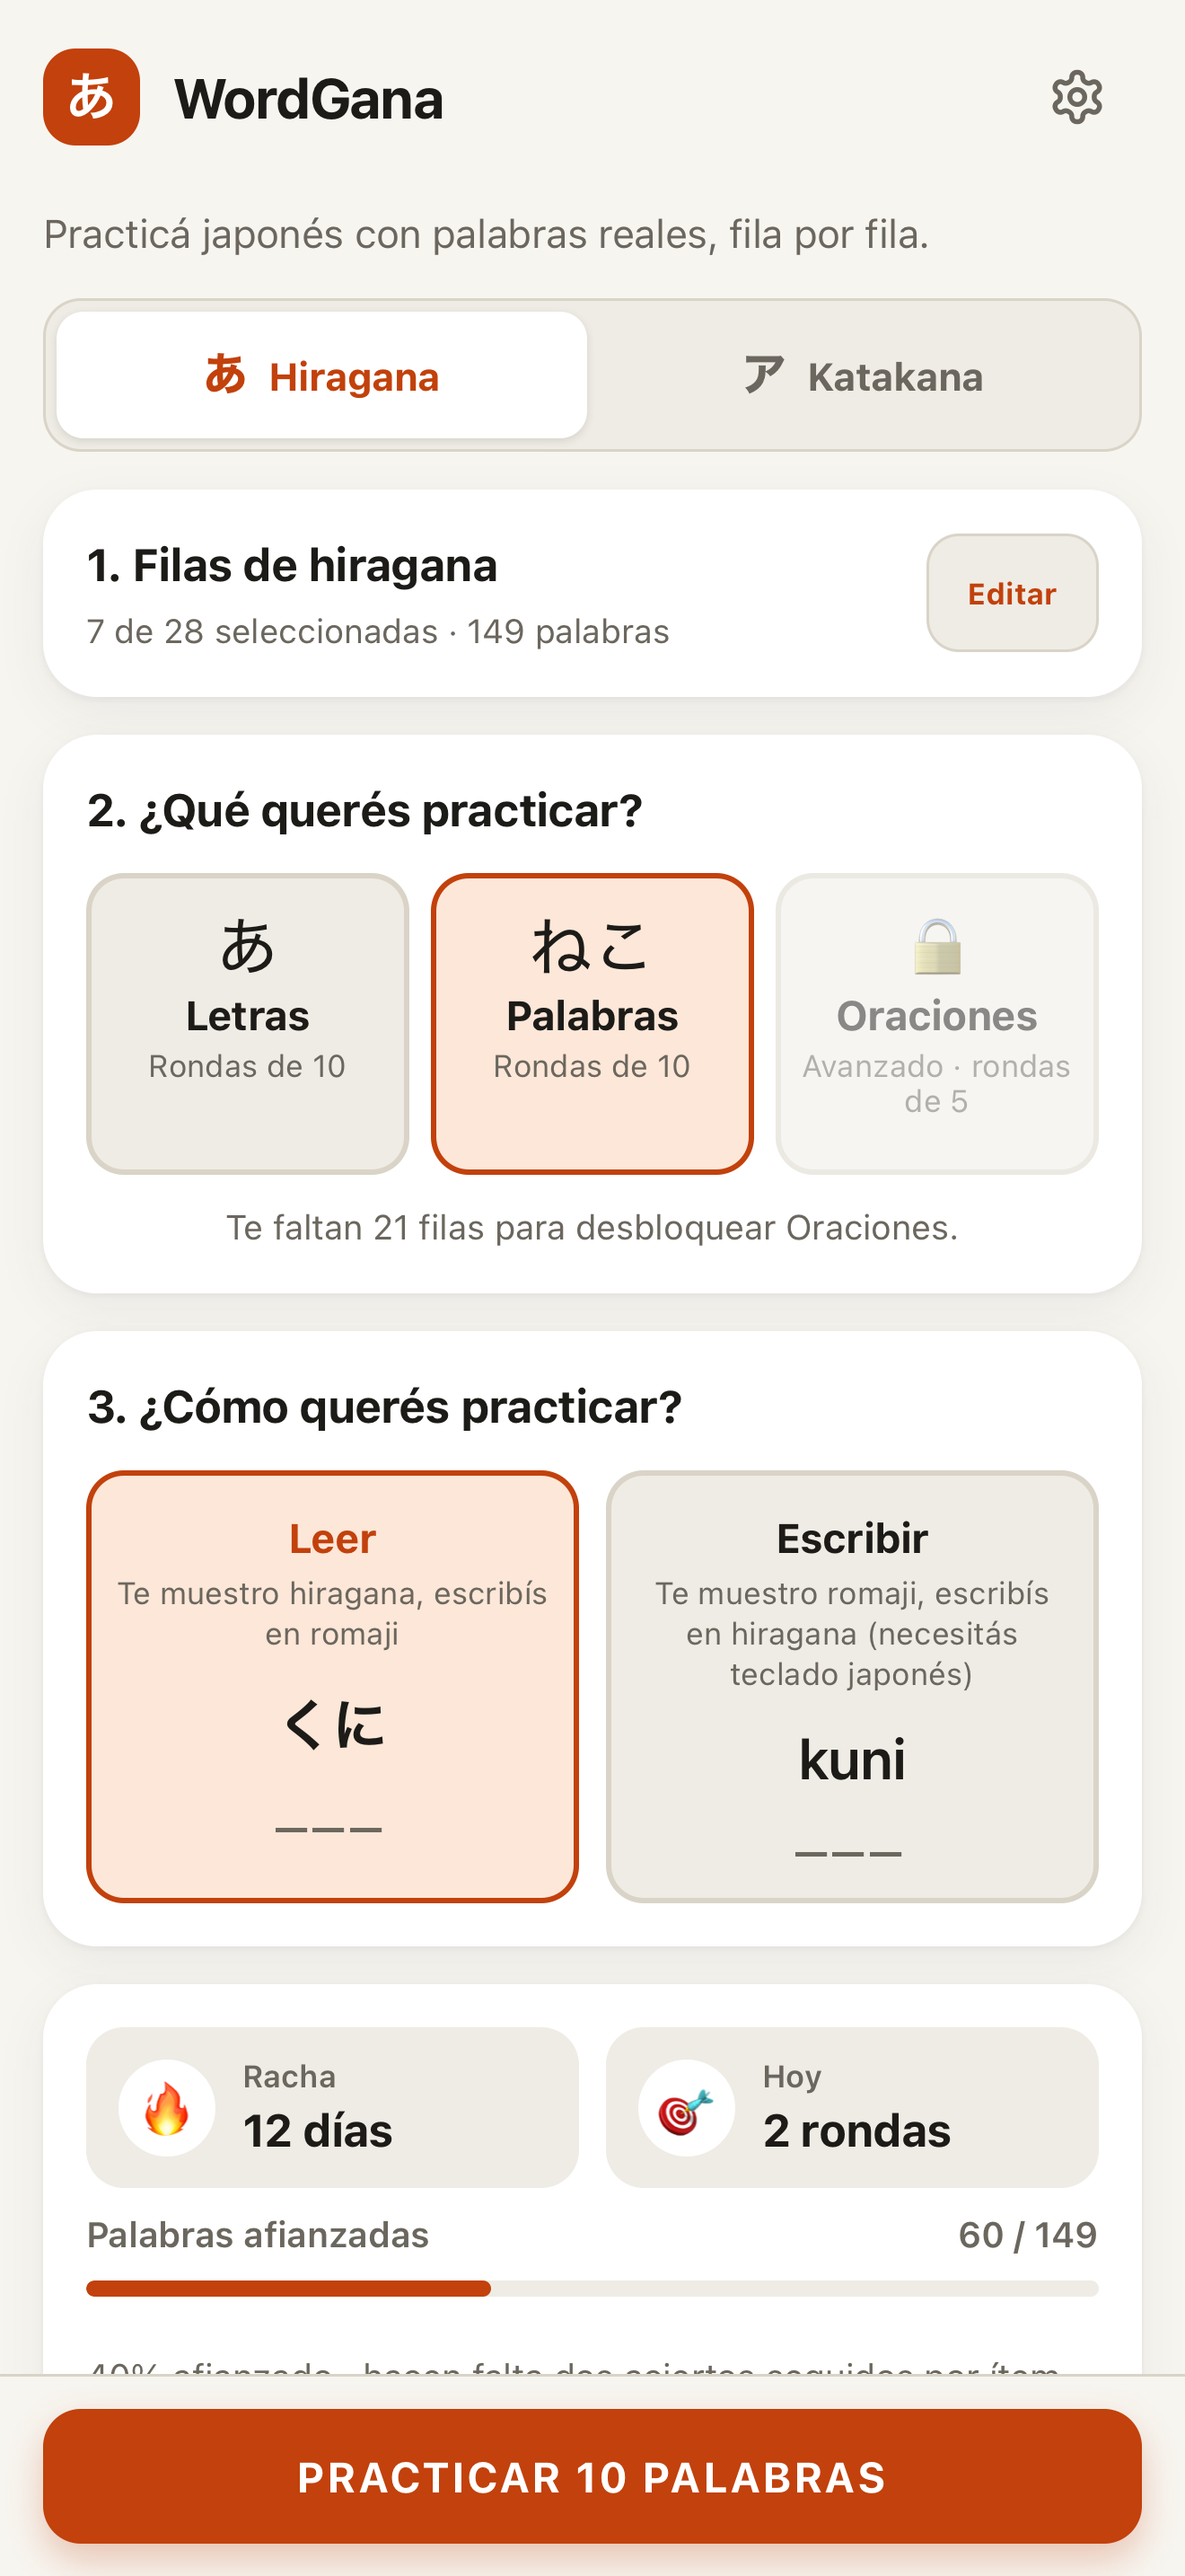
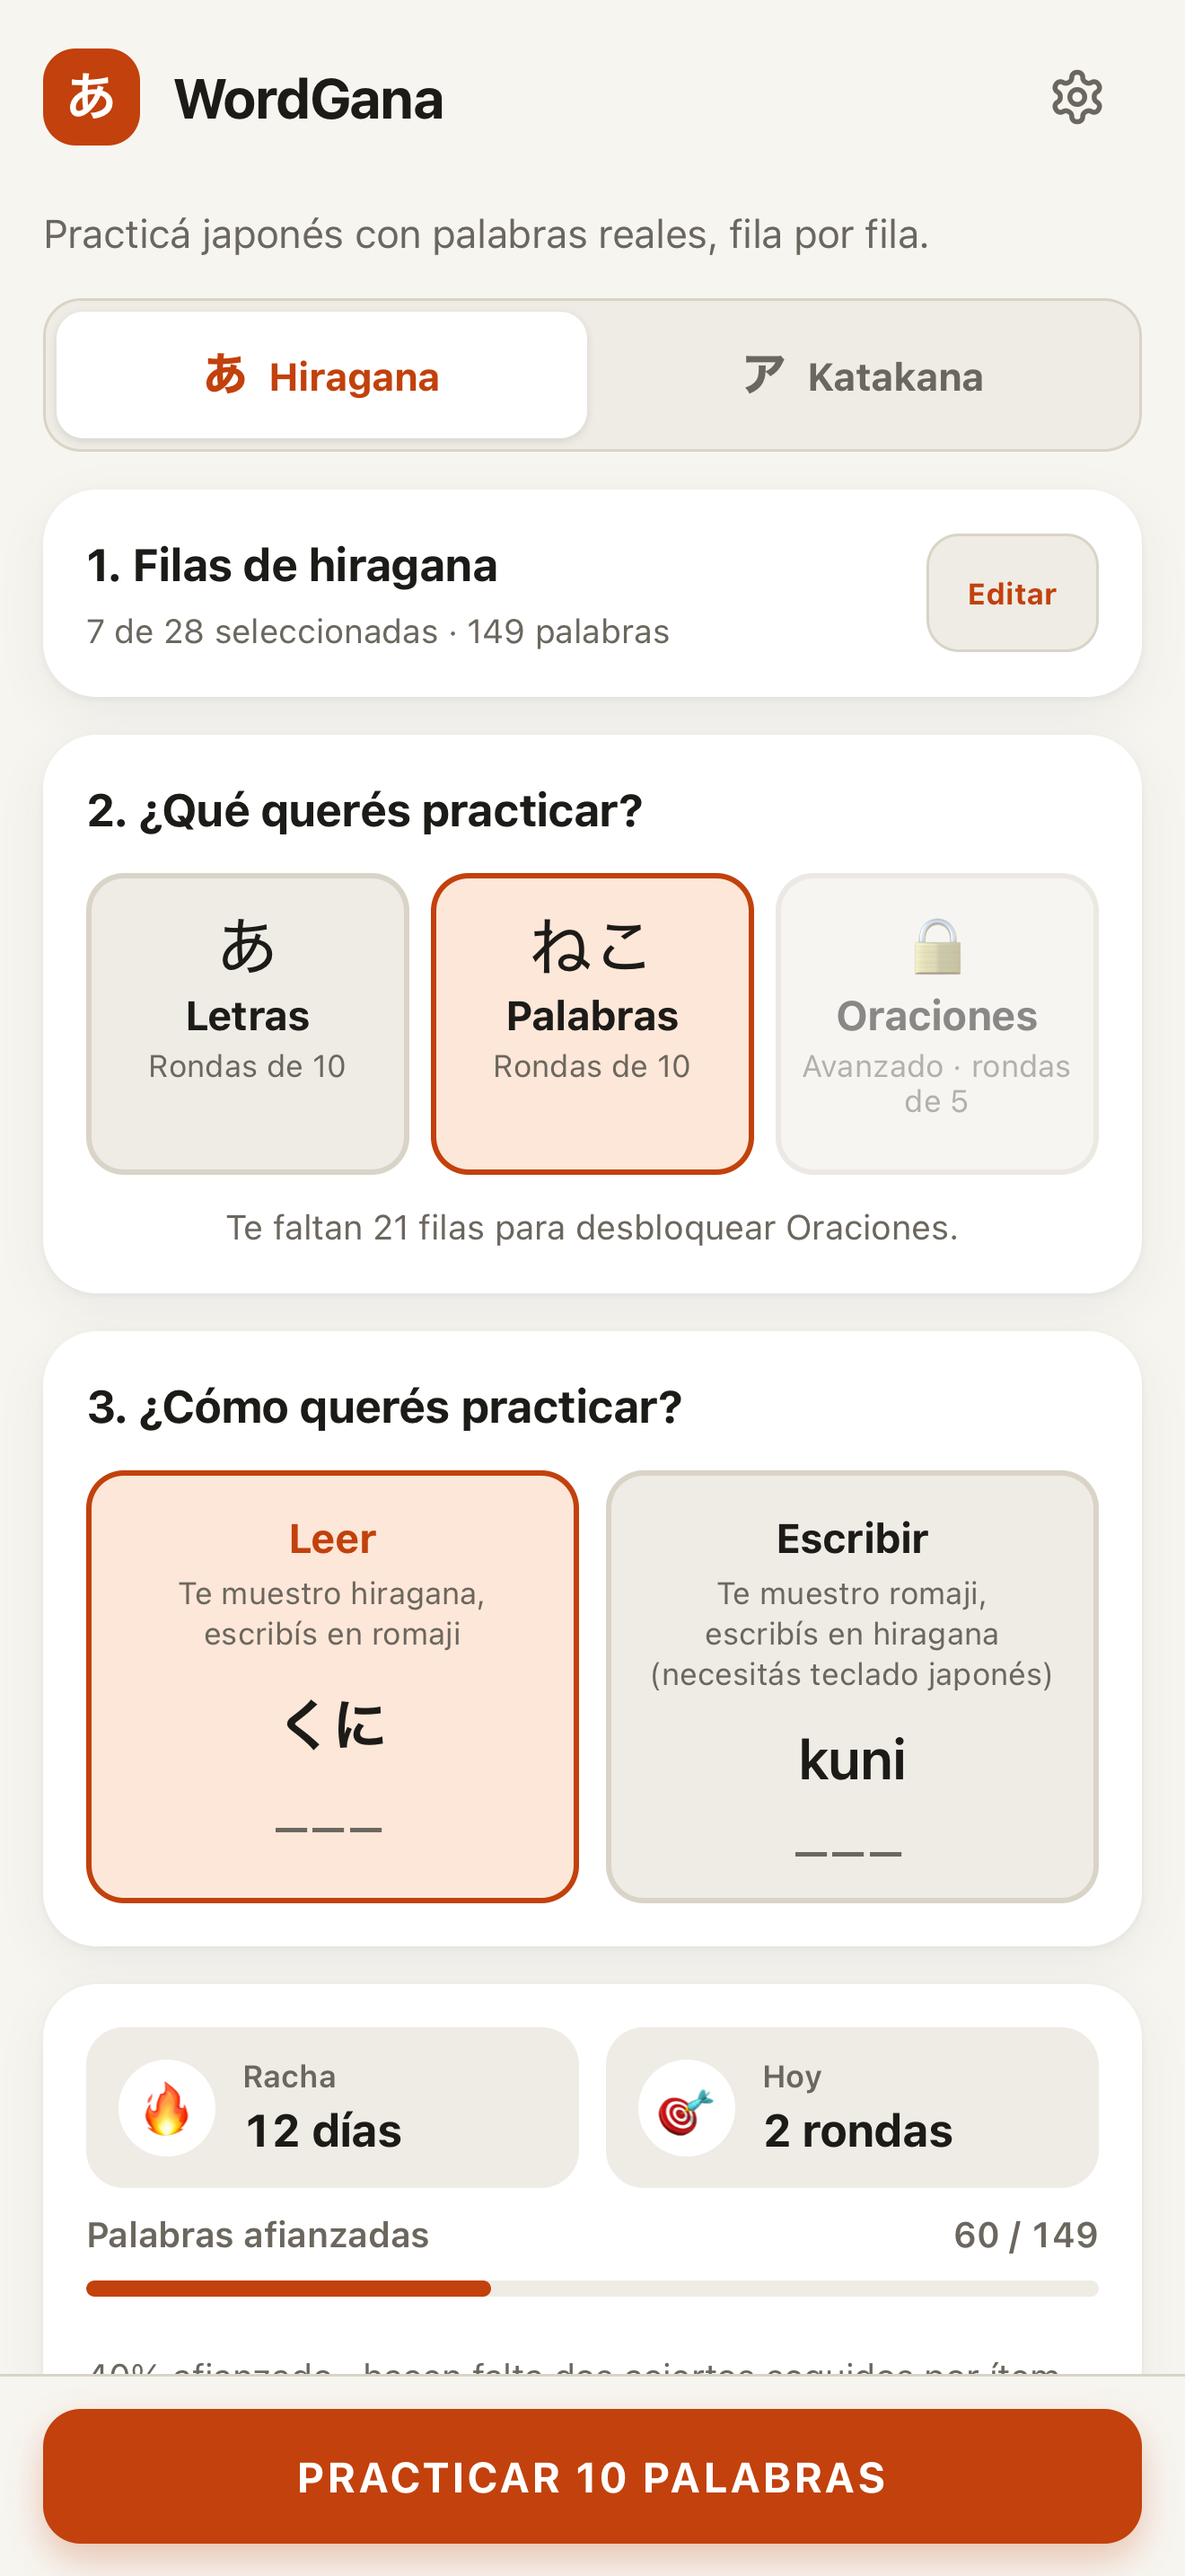
Pulir detalles de la interfaz
- Escala de 0.96 al presionar en todos los botones y tarjetas, con ease-out.
- Hover solo en dispositivos con puntero, para que no quede pegado en iPhone.
- Botones de audio del repaso de 44 px y texto del feedback centrado.
- Números tabulares en contadores, text-wrap en títulos y párrafos.
- Íconos con un único grosor de trazo y entrada de logros sin rebote.

diff --git a/src/styles.css b/src/styles.css
@@ -94,6 +94,8 @@ button:focus-visible, input:focus-visible, textarea:focus-visible {
 }
 .app--setup { padding-bottom: 0; }
 
+h1, h2, h3 { text-wrap: balance; }
+p { text-wrap: pretty; }
 h2 { font-size: 1.05rem; margin: 0 0 4px; font-weight: 700; }
 .ja { font-family: var(--font-ja); }
 
@@ -133,10 +135,12 @@ h2 { font-size: 1.05rem; margin: 0 0 4px; font-weight: 700; }
   background: transparent;
   color: var(--muted);
   cursor: pointer;
-  transition: background-color 0.15s ease, color 0.15s ease, transform 0.08s ease;
+  transition: background-color 0.15s ease-out, color 0.15s ease-out, transform 0.1s ease-out;
 }
-.appbar-btn:hover { background: var(--surface-2); color: var(--text); }
-.appbar-btn:active { background: var(--accent-soft); color: var(--accent); transform: scale(0.94); }
+.appbar-btn:active { background: var(--accent-soft); color: var(--accent); transform: scale(0.96); }
+@media (hover: hover) {
+  .appbar-btn:hover { background: var(--surface-2); color: var(--text); }
+}
 .appbar-btn--trailing { margin-left: auto; }
 .appbar-icon { width: 22px; height: 22px; }
 .appbar-title { min-width: 0; margin: 0; font-size: 1.3rem; font-weight: 700; letter-spacing: -0.01em; }
@@ -182,7 +186,7 @@ h2 { font-size: 1.05rem; margin: 0 0 4px; font-weight: 700; }
   border-radius: 999px;
   background: var(--border);
   cursor: pointer;
-  transition: background-color 0.2s ease;
+  transition: background-color 0.2s ease-out;
 }
 .switch::after {
   content: '';
@@ -194,7 +198,7 @@ h2 { font-size: 1.05rem; margin: 0 0 4px; font-weight: 700; }
   border-radius: 50%;
   background: #fff;
   box-shadow: 0 2px 4px rgba(0, 0, 0, 0.2);
-  transition: transform 0.2s ease;
+  transition: transform 0.2s ease-out;
 }
 .switch:checked { background: var(--ok); }
 .switch:checked::after { transform: translateX(20px); }
@@ -202,7 +206,7 @@ h2 { font-size: 1.05rem; margin: 0 0 4px; font-weight: 700; }
   min-height: 36px;
   padding: 4px 10px;
   border: 0;
-  border-radius: 8px;
+  border-radius: 6px;
   background: var(--surface);
   color: var(--text);
   font: inherit;
@@ -252,6 +256,7 @@ h2 { font-size: 1.05rem; margin: 0 0 4px; font-weight: 700; }
   cursor: pointer;
 }
 .script-switch-btn .ja { margin-right: 4px; font-size: 1.05rem; }
+.script-switch-btn { transition: background-color 0.15s ease-out, color 0.15s ease-out, box-shadow 0.15s ease-out; }
 .script-switch-btn--selected {
   background: var(--surface);
   color: var(--accent);
@@ -288,7 +293,7 @@ h2 { font-size: 1.05rem; margin: 0 0 4px; font-weight: 700; }
   font-size: 1.05rem;
 }
 .stat-label { margin: 0; font-size: 0.72rem; font-weight: 600; color: var(--muted); }
-.stat-value { margin: 0; font-size: 1.05rem; font-weight: 700; white-space: nowrap; }
+.stat-value { margin: 0; font-size: 1.05rem; font-weight: 700; white-space: nowrap; font-variant-numeric: tabular-nums; }
 
 .stat-tiles--spaced { margin-top: 12px; }
 .nav-list {
@@ -437,12 +442,12 @@ h2 { font-size: 1.05rem; margin: 0 0 4px; font-weight: 700; }
   align-items: center;
   gap: 12px;
   padding: 10px 0;
-  animation: achievement-pop 0.5s cubic-bezier(0.2, 0.9, 0.3, 1.25) both;
+  animation: achievement-pop 0.45s cubic-bezier(0.2, 0, 0, 1) both;
 }
 .unlocked-item + .unlocked-item { border-top: 1px solid color-mix(in srgb, var(--award-strong) 25%, transparent); }
 .unlocked-link { display: block; margin: 4px auto -8px; }
 @keyframes achievement-pop {
-  from { opacity: 0; transform: translateY(8px) scale(0.92); }
+  from { opacity: 0; transform: translateY(8px) scale(0.96); }
   to { opacity: 1; transform: none; }
 }
 
@@ -500,7 +505,7 @@ h2 { font-size: 1.05rem; margin: 0 0 4px; font-weight: 700; }
   background: var(--surface-2);
   color: var(--text);
   cursor: pointer;
-  transition: transform 0.08s ease;
+  transition: transform 0.1s ease-out;
 }
 .chip:active { transform: scale(0.96); }
 .chip--on {
@@ -533,9 +538,9 @@ h2 { font-size: 1.05rem; margin: 0 0 4px; font-weight: 700; }
   background: var(--surface-2);
   cursor: pointer;
   color: var(--text);
-  transition: transform 0.08s ease;
+  transition: transform 0.1s ease-out;
 }
-.mode-card:active { transform: scale(0.98); }
+.mode-card:active { transform: scale(0.96); }
 .mode-card--selected { border-color: var(--accent); background: var(--accent-soft); }
 .mode-card h3 { margin: 0 0 4px; font-size: 0.95rem; }
 .mode-card--selected h3 { color: var(--accent); }
@@ -561,6 +566,8 @@ h2 { font-size: 1.05rem; margin: 0 0 4px; font-weight: 700; }
   color: var(--text);
   cursor: pointer;
 }
+.choice-card { transition: transform 0.1s ease-out, background-color 0.15s ease-out, border-color 0.15s ease-out; }
+.choice-card:active:not(:disabled) { transform: scale(0.96); }
 .choice-card--selected { border-color: var(--accent); background: var(--accent-soft); }
 .choice-grid--three { grid-template-columns: repeat(3, minmax(0, 1fr)); gap: 8px; }
 .choice-grid--three .choice-card { padding: 12px 6px; text-align: center; }
@@ -606,9 +613,9 @@ h2 { font-size: 1.05rem; margin: 0 0 4px; font-weight: 700; }
   letter-spacing: 0.06em;
   box-shadow: var(--shadow-accent);
   cursor: pointer;
-  transition: transform 0.08s ease;
+  transition: transform 0.1s ease-out;
 }
-.primary-btn:active:not(:disabled) { transform: scale(0.98); }
+.primary-btn:active:not(:disabled) { transform: scale(0.96); }
 .primary-btn:disabled { opacity: 0.4; box-shadow: none; cursor: not-allowed; }
 
 .secondary-btn {
@@ -623,9 +630,9 @@ h2 { font-size: 1.05rem; margin: 0 0 4px; font-weight: 700; }
   font-size: 0.95rem;
   font-weight: 600;
   cursor: pointer;
-  transition: transform 0.08s ease;
+  transition: transform 0.1s ease-out;
 }
-.secondary-btn:active { transform: scale(0.98); }
+.secondary-btn:active { transform: scale(0.96); }
 
 /* --- Práctica --- */
 .progress-row {
@@ -637,6 +644,7 @@ h2 { font-size: 1.05rem; margin: 0 0 4px; font-weight: 700; }
   font-size: 0.82rem;
   font-weight: 600;
   color: var(--muted);
+  font-variant-numeric: tabular-nums;
 }
 .progress-track {
   height: 6px;
@@ -649,7 +657,7 @@ h2 { font-size: 1.05rem; margin: 0 0 4px; font-weight: 700; }
   height: 100%;
   border-radius: 999px;
   background: var(--accent);
-  transition: width 0.25s ease;
+  transition: width 0.25s ease-out;
 }
 .prompt-word {
   font-size: 2.8rem;
@@ -707,6 +715,8 @@ h2 { font-size: 1.05rem; margin: 0 0 4px; font-weight: 700; }
 }
 .feedback { display: flex; align-items: center; gap: 8px; }
 .feedback-text { flex: 1; min-width: 0; margin: 0; }
+/* Contrapeso del botón de audio para que el texto quede centrado en la tarjeta. */
+.feedback:has(.speak-btn)::before { content: ''; flex: none; width: 44px; }
 .speak-btn {
   flex: none;
   width: 44px;
@@ -719,11 +729,11 @@ h2 { font-size: 1.05rem; margin: 0 0 4px; font-weight: 700; }
   background: color-mix(in srgb, currentColor 12%, transparent);
   color: inherit;
   cursor: pointer;
-  transition: transform 0.08s ease, background-color 0.15s ease;
+  transition: transform 0.1s ease-out, background-color 0.15s ease-out;
 }
-.speak-btn:active { transform: scale(0.92); background: color-mix(in srgb, currentColor 22%, transparent); }
+.speak-btn:active { transform: scale(0.96); background: color-mix(in srgb, currentColor 22%, transparent); }
 .speak-btn svg { width: 22px; height: 22px; }
-.speak-btn--small { width: 40px; height: 40px; color: var(--accent); }
+.speak-btn--small { color: var(--accent); }
 .speak-btn--small svg { width: 19px; height: 19px; }
 .feedback-emoji { font-size: 1.35em; vertical-align: -0.1em; }
 .answer-diff { display: block; margin-top: 8px; font-size: 0.82rem; font-weight: 500; }
@@ -733,7 +743,7 @@ h2 { font-size: 1.05rem; margin: 0 0 4px; font-weight: 700; }
 
 /* --- Resultados --- */
 .score-card { text-align: center; padding: 24px 16px; }
-.score { font-size: 2.6rem; font-weight: 700; margin: 0; }
+.score { font-size: 2.6rem; font-weight: 700; margin: 0; font-variant-numeric: tabular-nums; }
 .score-sub { margin: 4px 0 0; color: var(--muted); font-size: 0.9rem; }
 .missed-list ul { list-style: none; margin: 0; padding: 0; }
 .missed-list li {

diff --git a/src/components/UnlockedAchievements.tsx b/src/components/UnlockedAchievements.tsx
@@ -19,7 +19,7 @@ export function UnlockedAchievements({ achievements, onViewAll }: UnlockedAchiev
           <li
             key={achievement.id}
             className="unlocked-item"
-            style={{ animationDelay: `${120 + index * 90}ms` }}
+            style={{ animationDelay: `${120 + index * 100}ms` }}
           >
             <AchievementBadge icon={achievement.icon} />
             <div className="achievement-text">

diff --git a/src/components/StatsStrip.tsx b/src/components/StatsStrip.tsx
@@ -69,7 +69,7 @@ export function StatsStrip({ links, streak, roundsToday, mastered, total, itemLa
               viewBox="0 0 24 24"
               fill="none"
               stroke="currentColor"
-              strokeWidth="2.25"
+              strokeWidth="2"
               strokeLinecap="round"
               strokeLinejoin="round"
               aria-hidden="true"

diff --git a/src/components/TopBar.tsx b/src/components/TopBar.tsx
@@ -26,7 +26,7 @@ export function TopBar({ title, onClose, onBack, onSettings, mark = 'あ' }: Top
               viewBox="0 0 24 24"
               fill="none"
               stroke="currentColor"
-              strokeWidth="2.25"
+              strokeWidth="2"
               strokeLinecap="round"
               strokeLinejoin="round"
               aria-hidden="true"
